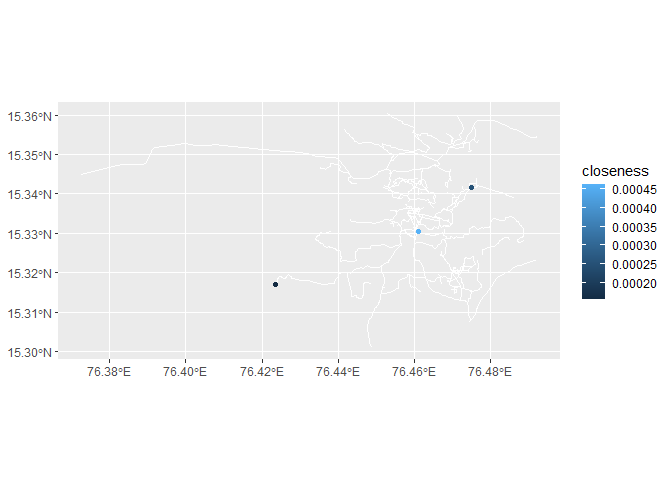
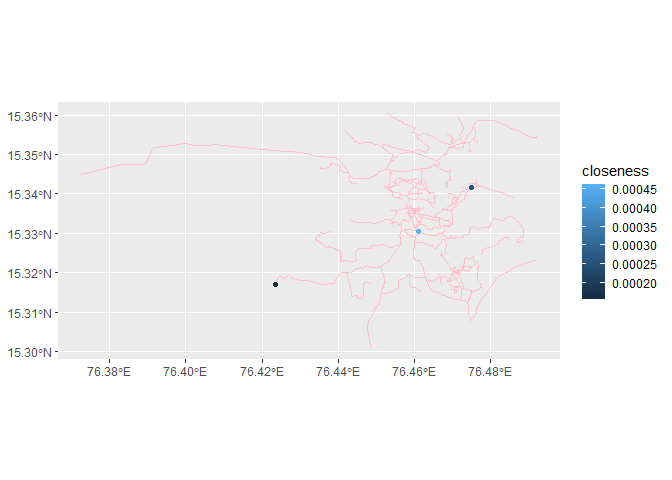
Changed color of hampi streetnet for the graph where it is depicted.

diff --git a/README.md b/README.md
@@ -192,7 +192,7 @@ pts_centrality_with_graph <- st_closeness_centrality(pts, graph = graph)
 
 # Depict results:
 ggplot() +
-  geom_sf(data = dodgr::hampi, color = "white") +
+  geom_sf(data = dodgr::hampi, color = "pink") +
   geom_sf(data = pts_centrality_with_graph, aes(color = closeness))
 ```
 
